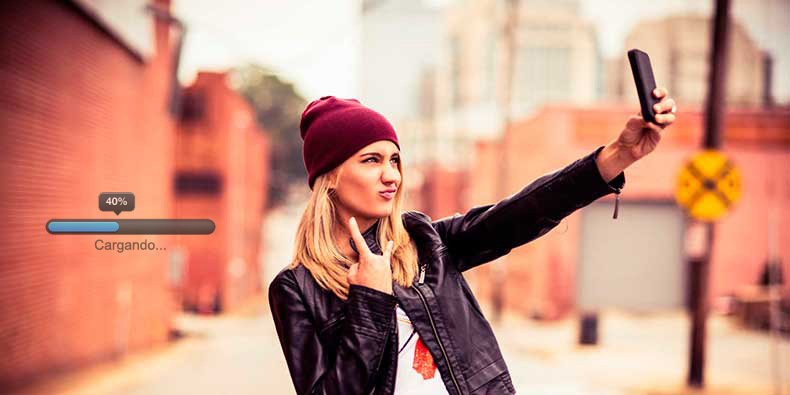
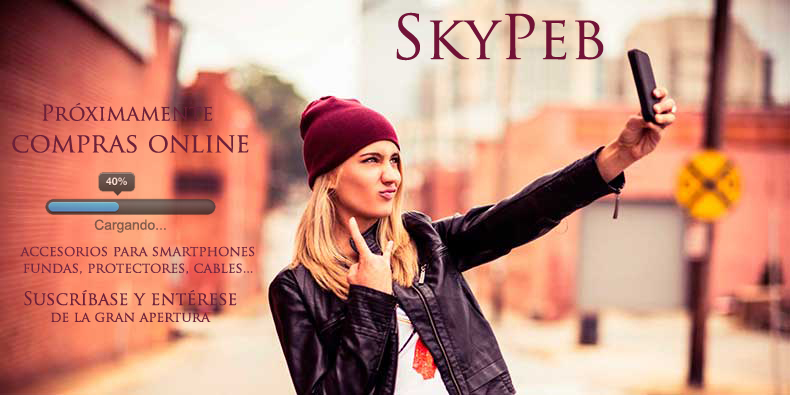
fixing design

diff --git a/templates/index_1.html b/templates/index_1.html
@@ -35,20 +35,21 @@
     </div>
 </div>
 
-<h1 id="title">SkyPeb</h1>
-<h5 id="prox">Próximamente</h5>
-<h5 id="shop">COMPRAS ONLINE</h5>
-<h6 class="accesorios" id="ac">accesorios para smartphones</h6>
-<h6 class="accesorios" id="ac_1">fundas, protectores, cables...</h6>
-<h6 id="sus">Suscríbase y entérese</h6>
-<h6 id="opening">de la gran apertura</h6>
+{#<h1 id="title">SkyPeb</h1>#}
+{#<h5 id="prox">Próximamente</h5>#}
+{#<h5 id="shop">COMPRAS ONLINE</h5>#}
+{#<h6 class="accesorios" id="ac">accesorios para smartphones</h6>#}
+{#<h6 class="accesorios" id="ac_1">fundas, protectores, cables...</h6>#}
+{#<h6 id="sus">Suscríbase y entérese</h6>#}
+{#<h6 id="opening">de la gran apertura</h6>#}
+
+<img src="{% static 'image/Wall-SkyPeb.jpg' %}">
 
 <form id="the_form" action="" method="get">
     {% csrf_token %}
     <input type="text" class="email" id="mail" name="mail" placeholder="E-mail" required/>
     <input type="submit" class="submit" id="submit_button" value="Suscribirse"/>
 </form>
-<img src="{% static 'image/Wall-SkyPeb.jpg' %}">
 
 </body>
 

diff --git a/skypeb/static/css/style.css b/skypeb/static/css/style.css
@@ -68,9 +68,9 @@ input {
 }
 
 #the_form {
-    position: absolute;
-    top: 87%;
-    left: 7.5%;
+    position: relative;
+    top: -79px;
+    left: 4.5%;
 }
 
 #submit_button {

diff --git a/skypeb/static/css/styles.scss87ea.css b/skypeb/static/css/styles.scss87ea.css
@@ -3854,11 +3854,6 @@ button.close {
     width: 100%;
 }
 
-#the_form {
-    position: relative;
-    top: 80%;
-}
-
 .text {
     position: absolute;
 }
